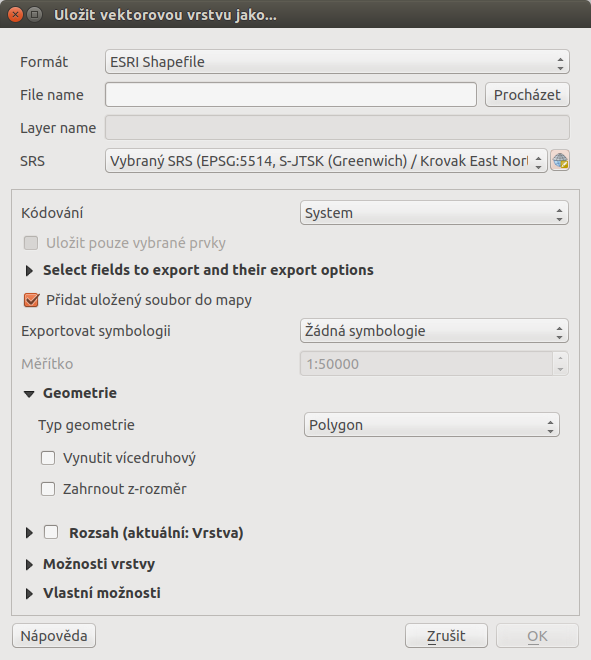
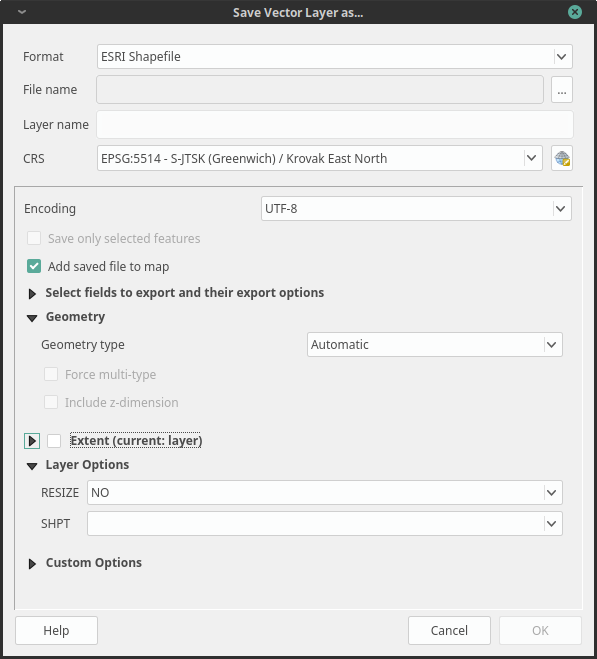
update:import

diff --git a/vektorova_data/vektor_import.rst b/vektorova_data/vektor_import.rst
@@ -37,12 +37,6 @@ vrstvy je možné označením :item:`Typ zdroje` - |checkbox|
 navigační okno s možností vybrat soubor s vektorovými daty. Po
 potvrzení se označená vrstva načte do mapového okna.
 
-.. figure:: images/vector_import_layer.png
-   :class: large
-   :scale-latex: 85
-   
-   Nahrání vektorové vrstvy do QGIS.
-
 Volba :item:`Adresář` umožňuje označit složku, ve které se nachází
 vektorová data. Potvrzením tlačítkem :item:`Otevřít` QGIS připraví
 všechna dostupná data uložená ve složce k načtení. Objeví se
@@ -63,22 +57,20 @@ Export vektorových dat
 ----------------------
 
 Pravým kliknutím na vrstvu vyvoláme kontextové menu, vybereme možnost
-:item:`Uložit jako...` a zadáme parametry exportu. Můžeme zde zvolit
-výstupní formát (např. ``*.kml``, ``*.shp``, ``*.gpx``), souřadnicový
-systém vrstvy a další volitelné parametry.
+:item:`Export -> Save Features As...` a zadáme parametry exportu. Můžeme zde zvolit výstupní formát (např. ``*.kml``, ``*.shp``, ``*.gpx``), souřadnicový systém vrstvy a další volitelné parametry.
 
 .. figure:: images/vector_saveas.png
    :scale-latex: 45
 
    Okno exportu vektorové vrstvy.
 
-
-.. tip:: Pokud potřebujeme exportovat pouze část prvků vrstvy nebo
-    konkrétní zájmové prvky, musíme tyto prvky nejprve označit
-    výběrem (např. |mActionSelectRectangle| :sup:`Vybrat prvky oblastí
-    nebo jednoklikem` nebo |mIconExpressionSelect| :sup:`Vabrat prvky
-    pomocí vzorce`). Potom se nám v okně exportu aktivuje možnost
-    |checkbox| :sup:`Uložit pouze vybrané prvky`.
+Pokud potřebujeme exportovat pouze část prvků vrstvy nebo
+konkrétní zájmové prvky, musíme tyto prvky nejprve označit
+výběrem (např. |mActionSelectRectangle| :sup:`Vybrat prvky oblastí
+nebo jednoklikem` nebo |mIconExpressionSelect| :sup:`Vabrat prvky
+pomocí vzorce`). Potom se nám v okně exportu aktivuje možnost
+|checkbox| :sup:`Uložit pouze vybrané prvky`, nebo pro export použijeme
+druhou volbu z kontextového menu :item:`Export -> Save Features As...`
 
 .. tip:: Pro uložení pouze atributové tabulky vrstvy lze zvolit
     výstupní formát ``*.csv``.
